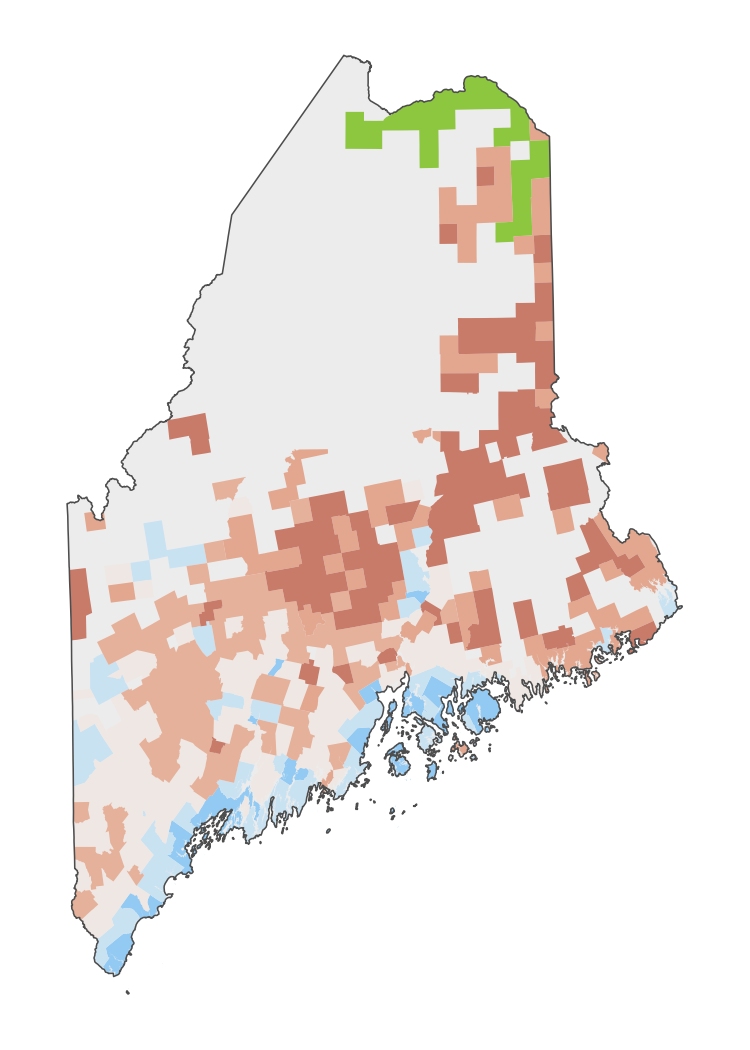
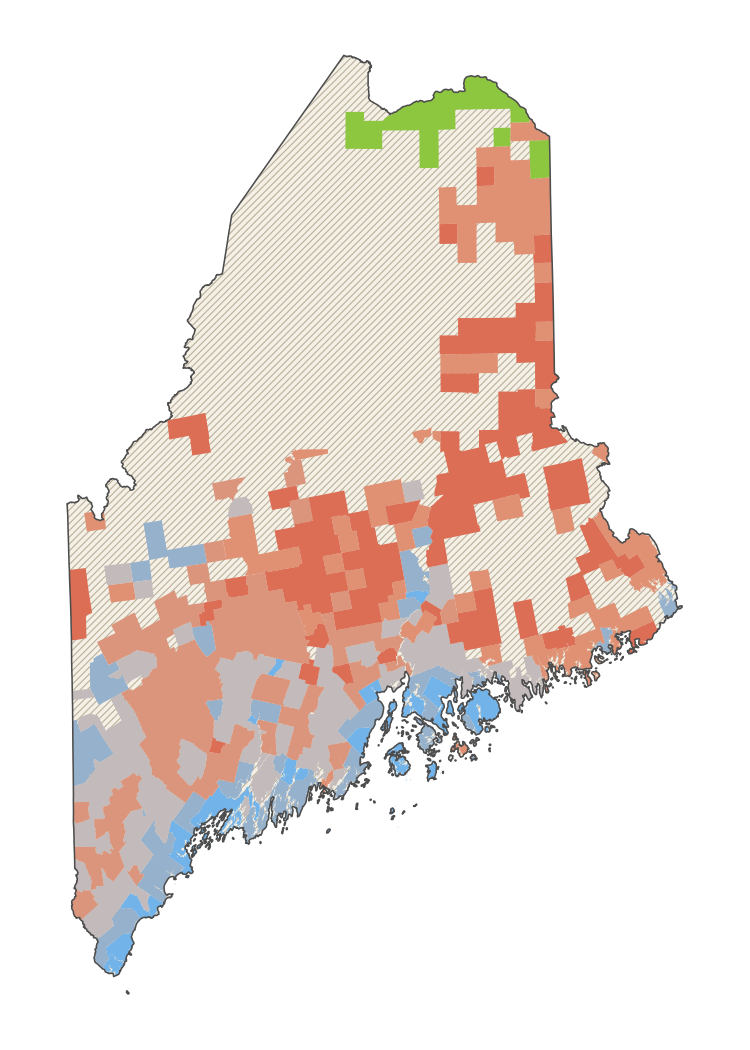
Atlas: Maine on seven stepping-stone blocs (zeta 0.5)
Maine's panels now show the seven-bloc stepping-stone partition the paper
uses (K = 10 run, zeta = 0.5; pooled posterior p(T = 7) = 1.00): The Old
Coast, The River Towns, Hills and Fields, New France, The Mills, The County,
The Deep Woods. Rebuilds Maine's map, zoom map and PCA in both the base and
fused schemes; only Maine's panel changes in the panel HTML. The US overview
map is not rebuilt.

Changed region(s): [[0.092, 0.061, 0.92, 0.9448], [0.7053, 0.3657, 0.736, 0.3962], [0.7053, 0.3048, 0.736, 0.3352]]

diff --git a/research/_atlas_fused_panels.html b/research/_atlas_fused_panels.html
@@ -183,13 +183,13 @@
     <figure class="atlas-pca"><img loading="lazy" src="../files/images/research/atlas-fused/me_pca.gif" alt="Rotating three-dimensional plot of Maine towns on their first three Jensen-Shannon principal coordinates, colored by voting bloc, with numbered bloc centroids.">
       <figcaption>Towns on the first three principal coordinates of their voting (PC1 60% of variation). Numbers mark bloc centers. <strong>Click the plot</strong> to color the same points by density, race and education.</figcaption></figure>
     <ol class="atlas-blocs">
-      <li><span class="bloc-swatch" style="background:#92CAF3;color:#111">1</span><span class="bloc-name">Portland and the College Towns</span><span class="bloc-meta">39 towns &middot; Harris 2024 74%</span></li>
-      <li><span class="bloc-swatch" style="background:#C9E2F2;color:#111">2</span><span class="bloc-name">Regional Centers</span><span class="bloc-meta">62 towns &middot; Harris 2024 61%</span></li>
-      <li><span class="bloc-swatch" style="background:#EFE7E3;color:#111">3</span><span class="bloc-name">Mill Cities and Commuter Towns</span><span class="bloc-meta">93 towns &middot; Harris 2024 48%</span></li>
-      <li><span class="bloc-swatch" style="background:#8DC63F;color:#111">4</span><span class="bloc-name">Franco-Americans</span><span class="bloc-meta">19 towns &middot; Harris 2024 43%</span></li>
-      <li><span class="bloc-swatch" style="background:#E6B19A;color:#111">5</span><span class="bloc-name">Western Foothills</span><span class="bloc-meta">81 towns &middot; Harris 2024 39%</span></li>
-      <li><span class="bloc-swatch" style="background:#E3A78F;color:#111">6</span><span class="bloc-name">Bangor Exurbs and North Woods</span><span class="bloc-meta">74 towns &middot; Harris 2024 37%</span></li>
-      <li><span class="bloc-swatch" style="background:#C97B69;color:#fff">7</span><span class="bloc-name">Rural Interior</span><span class="bloc-meta">94 towns &middot; Harris 2024 28%</span></li>
+      <li><span class="bloc-swatch" style="background:#72B3E9;color:#111">1</span><span class="bloc-name">The Old Coast</span><span class="bloc-meta">39 towns &middot; Harris 2024 74%</span></li>
+      <li><span class="bloc-swatch" style="background:#96B1CC;color:#111">2</span><span class="bloc-name">The River Towns</span><span class="bloc-meta">61 towns &middot; Harris 2024 61%</span></li>
+      <li><span class="bloc-swatch" style="background:#C2BABB;color:#111">3</span><span class="bloc-name">Hills and Fields</span><span class="bloc-meta">85 towns &middot; Harris 2024 49%</span></li>
+      <li><span class="bloc-swatch" style="background:#8DC63F;color:#111">4</span><span class="bloc-name">New France</span><span class="bloc-meta">15 towns &middot; Harris 2024 43%</span></li>
+      <li><span class="bloc-swatch" style="background:#DB957C;color:#111">5</span><span class="bloc-name">The Mills</span><span class="bloc-meta">91 towns &middot; Harris 2024 40%</span></li>
+      <li><span class="bloc-swatch" style="background:#E09174;color:#111">6</span><span class="bloc-name">The County</span><span class="bloc-meta">72 towns &middot; Harris 2024 38%</span></li>
+      <li><span class="bloc-swatch" style="background:#DC6E55;color:#fff">7</span><span class="bloc-name">The Deep Woods</span><span class="bloc-meta">99 towns &middot; Harris 2024 28%</span></li>
     </ol>
     <figure class="atlas-state-map"><div class="atlas-zoom"><img loading="lazy" src="../files/images/research/atlas-fused/me_map.png" data-hi="../files/images/research/atlas-fused/me_map_hi.png" data-lines="../files/images/research/atlas/me_lines.png" data-labels="../files/images/research/atlas/me_labels.json" alt="Map of Maine towns colored by voting bloc (7 blocs)." draggable="false"></div><figcaption>Scroll, pinch or double-click to zoom; drag to pan. Zoom in for boundaries and town names.</figcaption></figure>
   </div>

diff --git a/research/_atlas_panels.html b/research/_atlas_panels.html
@@ -183,13 +183,13 @@
     <figure class="atlas-pca"><img loading="lazy" src="../files/images/research/atlas/me_pca.gif" alt="Rotating three-dimensional plot of Maine towns on their first three Jensen-Shannon principal coordinates, colored by voting bloc, with numbered bloc centroids.">
       <figcaption>Towns on the first three principal coordinates of their voting (PC1 60% of variation). Numbers mark bloc centers. <strong>Click the plot</strong> to color the same points by density, race and education.</figcaption></figure>
     <ol class="atlas-blocs">
-      <li><span class="bloc-swatch" style="background:#3FA5ED;color:#111">1</span><span class="bloc-name">Portland and the College Towns</span><span class="bloc-meta">39 towns &middot; Harris 2024 74%</span></li>
-      <li><span class="bloc-swatch" style="background:#00BAB0;color:#111">2</span><span class="bloc-name">Regional Centers</span><span class="bloc-meta">62 towns &middot; Harris 2024 61%</span></li>
-      <li><span class="bloc-swatch" style="background:#30B550;color:#111">3</span><span class="bloc-name">Mill Cities and Commuter Towns</span><span class="bloc-meta">93 towns &middot; Harris 2024 48%</span></li>
-      <li><span class="bloc-swatch" style="background:#7CAD00;color:#111">4</span><span class="bloc-name">Franco-Americans</span><span class="bloc-meta">19 towns &middot; Harris 2024 43%</span></li>
-      <li><span class="bloc-swatch" style="background:#9AA600;color:#111">5</span><span class="bloc-name">Western Foothills</span><span class="bloc-meta">81 towns &middot; Harris 2024 39%</span></li>
-      <li><span class="bloc-swatch" style="background:#A6A300;color:#111">6</span><span class="bloc-name">Bangor Exurbs and North Woods</span><span class="bloc-meta">74 towns &middot; Harris 2024 37%</span></li>
-      <li><span class="bloc-swatch" style="background:#D58F37;color:#111">7</span><span class="bloc-name">Rural Interior</span><span class="bloc-meta">94 towns &middot; Harris 2024 28%</span></li>
+      <li><span class="bloc-swatch" style="background:#3FA5ED;color:#111">1</span><span class="bloc-name">The Old Coast</span><span class="bloc-meta">39 towns &middot; Harris 2024 74%</span></li>
+      <li><span class="bloc-swatch" style="background:#00BAB1;color:#111">2</span><span class="bloc-name">The River Towns</span><span class="bloc-meta">61 towns &middot; Harris 2024 61%</span></li>
+      <li><span class="bloc-swatch" style="background:#20B555;color:#111">3</span><span class="bloc-name">Hills and Fields</span><span class="bloc-meta">85 towns &middot; Harris 2024 49%</span></li>
+      <li><span class="bloc-swatch" style="background:#79AD00;color:#111">4</span><span class="bloc-name">New France</span><span class="bloc-meta">15 towns &middot; Harris 2024 43%</span></li>
+      <li><span class="bloc-swatch" style="background:#95A800;color:#111">5</span><span class="bloc-name">The Mills</span><span class="bloc-meta">91 towns &middot; Harris 2024 40%</span></li>
+      <li><span class="bloc-swatch" style="background:#A2A400;color:#111">6</span><span class="bloc-name">The County</span><span class="bloc-meta">72 towns &middot; Harris 2024 38%</span></li>
+      <li><span class="bloc-swatch" style="background:#D58F34;color:#111">7</span><span class="bloc-name">The Deep Woods</span><span class="bloc-meta">99 towns &middot; Harris 2024 28%</span></li>
     </ol>
     <figure class="atlas-state-map"><div class="atlas-zoom"><img loading="lazy" src="../files/images/research/atlas/me_map.png" data-hi="../files/images/research/atlas/me_map_hi.png" data-lines="../files/images/research/atlas/me_lines.png" data-labels="../files/images/research/atlas/me_labels.json" alt="Map of Maine towns colored by voting bloc (7 blocs)." draggable="false"></div><figcaption>Scroll, pinch or double-click to zoom; drag to pan. Zoom in for boundaries and town names.</figcaption></figure>
   </div>
